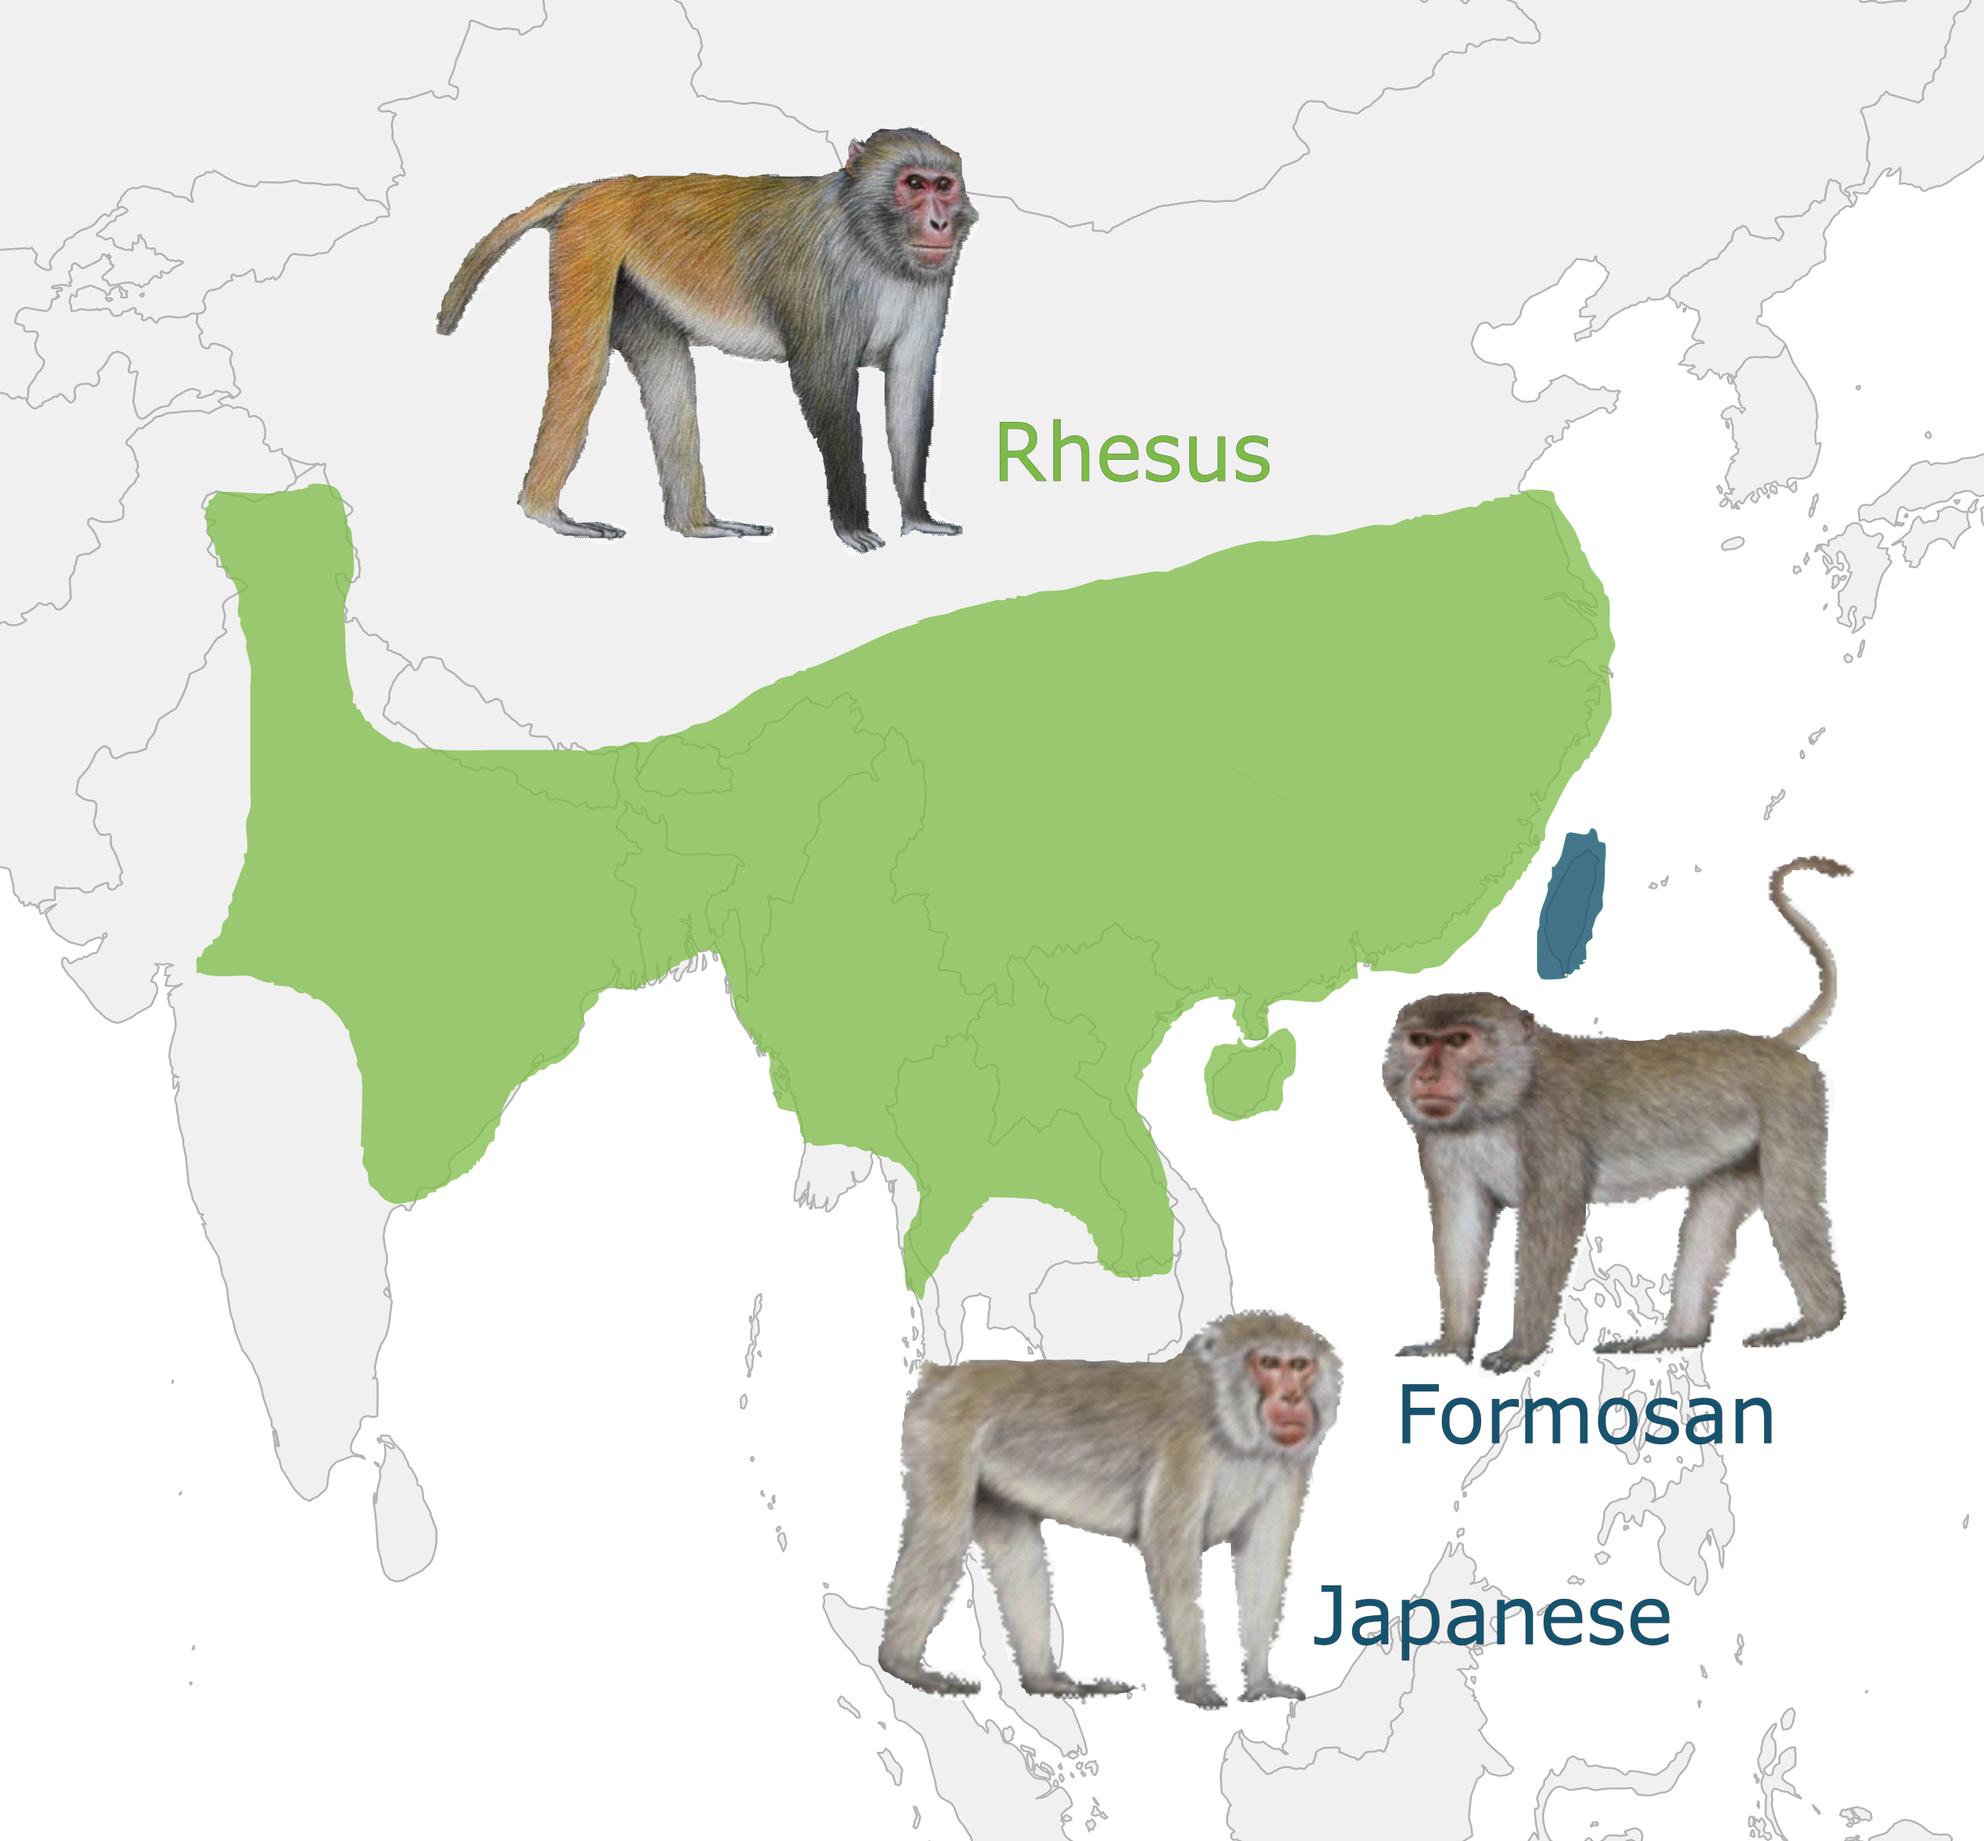
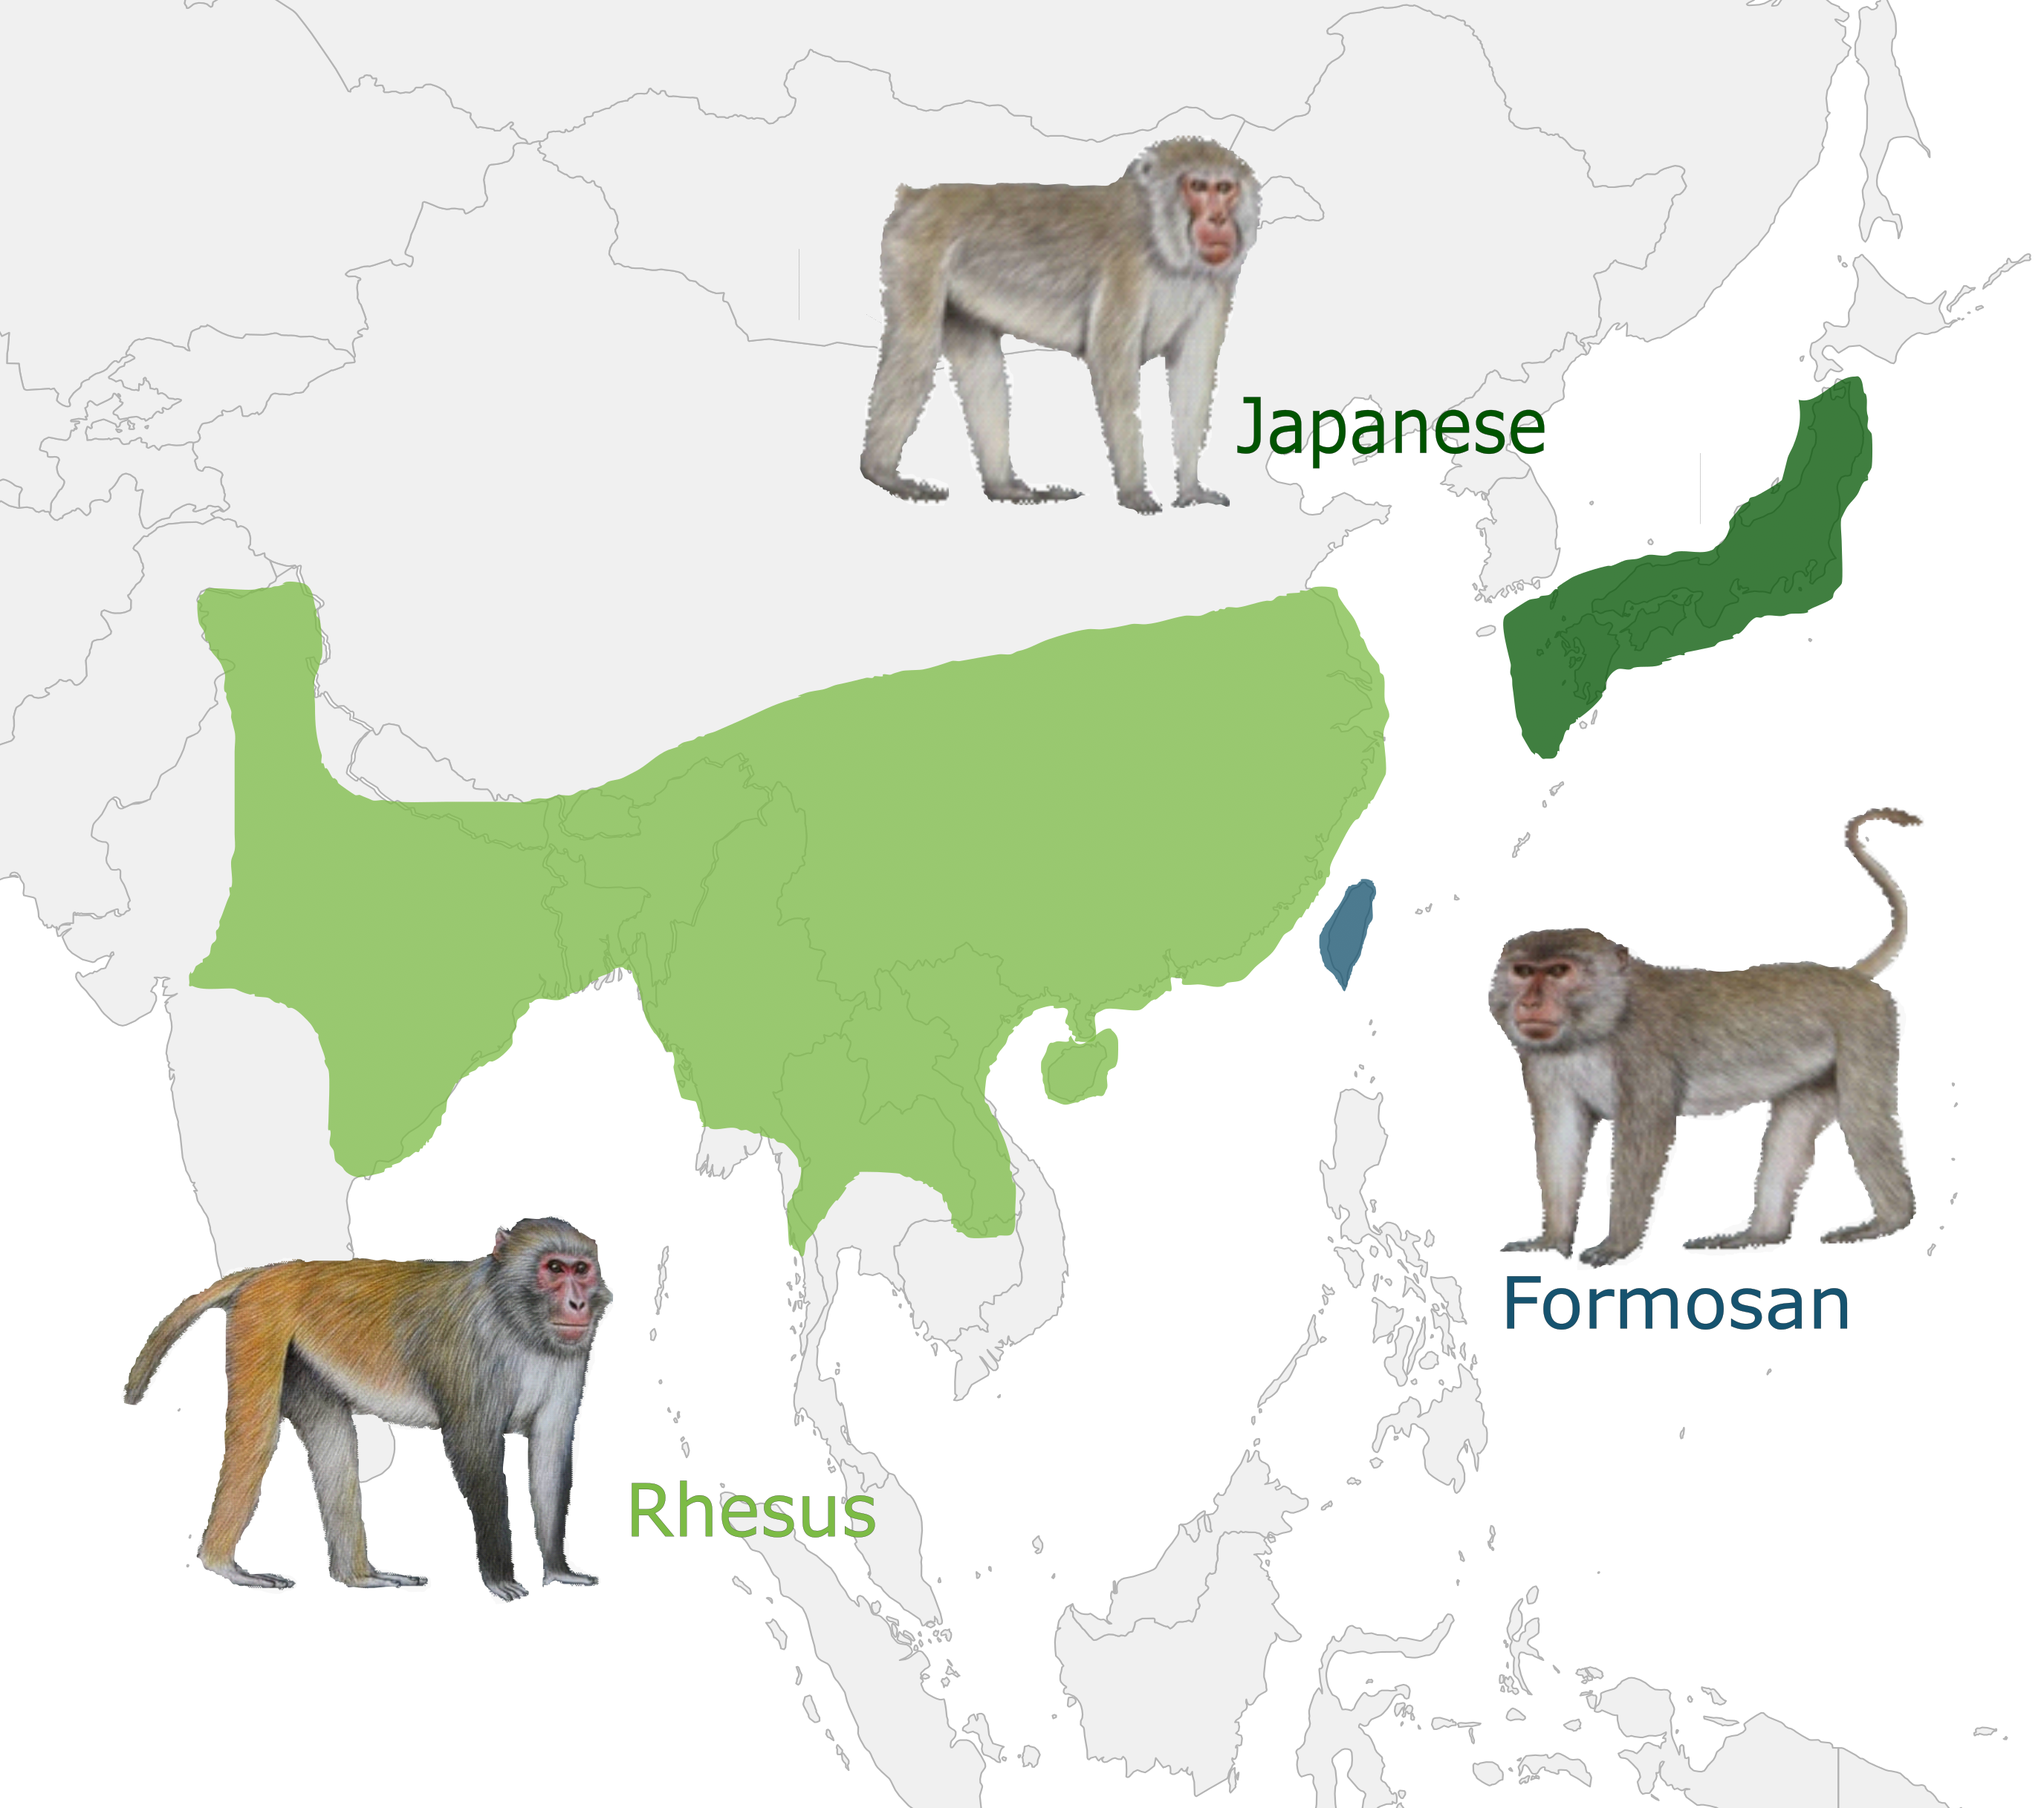
update macaque species maps

diff --git a/macaque_species.md b/macaque_species.md
@@ -8,6 +8,10 @@ permalink: /macaque_species/
 Macaques are a diverse and highly successful group, with the broadest geographical distribution of any nonhuman primate, from the tropical islands of Sulawesi to the snow-covered Atlas Mountains in Morocco. There are now 25 recognised extant macaque species. The most ancestral macaque species is the Barbary macaque <em>(M. sylvanus)</em>, the only living species found outside of the Asian continent, inhabiting Morocco, Algeria and Gibraltar. The Barbary macaque is the only extant member of the <em>sylvanus</em> clade, which originated in Africa and was the first of seven extant macaque clades to diverge. Approximately 3 million years ago, several radiation events brought macaques from Africa to Asia, giving rise to six other macaque clades. Once they began to populate Asia, the macaques separated into two overarching groups; one that later diverged to form the <em>silenus</em> and <em>sulawesi</em> clades and another which later separated into the <em>sinica</em>, <em>fascicularis</em>, <em>arctoides</em>  and <em>mulatta</em> clades, in that order.
 <div style="text-align:center"><img class="image" src="/assets/images/worldmap_allregions.png" width="1000" height="auto"/></div><br/>
 
+There are now 25 recognised extant macaque species. The most ancestral macaque species is the Barbary macaque <em>(M. sylvanus)</em>, the only living species found outside of the Asian continent, inhabiting Morocco, Algeria and Gibraltar. The Barbary macaque is the only extant member of the <em>sylvanus</em> clade, which originated in Africa and was the first of seven extant macaque clades to diverge. Approximately 3 million years ago, several radiation events brought macaques from Africa to Asia, giving rise to six other macaque clades. 
+Once they began to populate Asia, the macaques separated into two overarching groups; one that later diverged to form the <em>silenus</em> and <em>sulawesi</em> clades and another which later separated into the <em>sinica</em>, <em>fascicularis</em>, <em>arctoides</em>  and <em>mulatta</em> clades, in that order.
+<div style="text-align:center"><img class="image" src="/assets/images/worldmap_sylvanus_group.png" width="1000" height="auto"/></div><br/>
+
 The <em>silenus</em> clade encompasses the northern pig-tailed <em>(M. leonina)</em>, southern pig-tailed <em>(M. nemestrina)</em>, Pagai <em>(M. pagensis)</em>, Siberut <em>(M. siberu)</em> and lion-tailed <em>(M. silenus)</em> macaque species. The northern pig-tailed macaque inhabits northern Asian regions such as China and India, whereas the southern pig-tailed macaque can be found in southern Asian countries including, Indonesia and Malaysia. The other species within the silenus clade have much smaller ranges. The lion-tailed macaque inhabits southern India, while both Pagai and Siberut macaques live on Siberut Island in Indonesia.
 <div style="text-align:center"><img class="image" src="/assets/images/worldmap_silenus_group.png" width="300" height="auto"/></div><br/>
 
